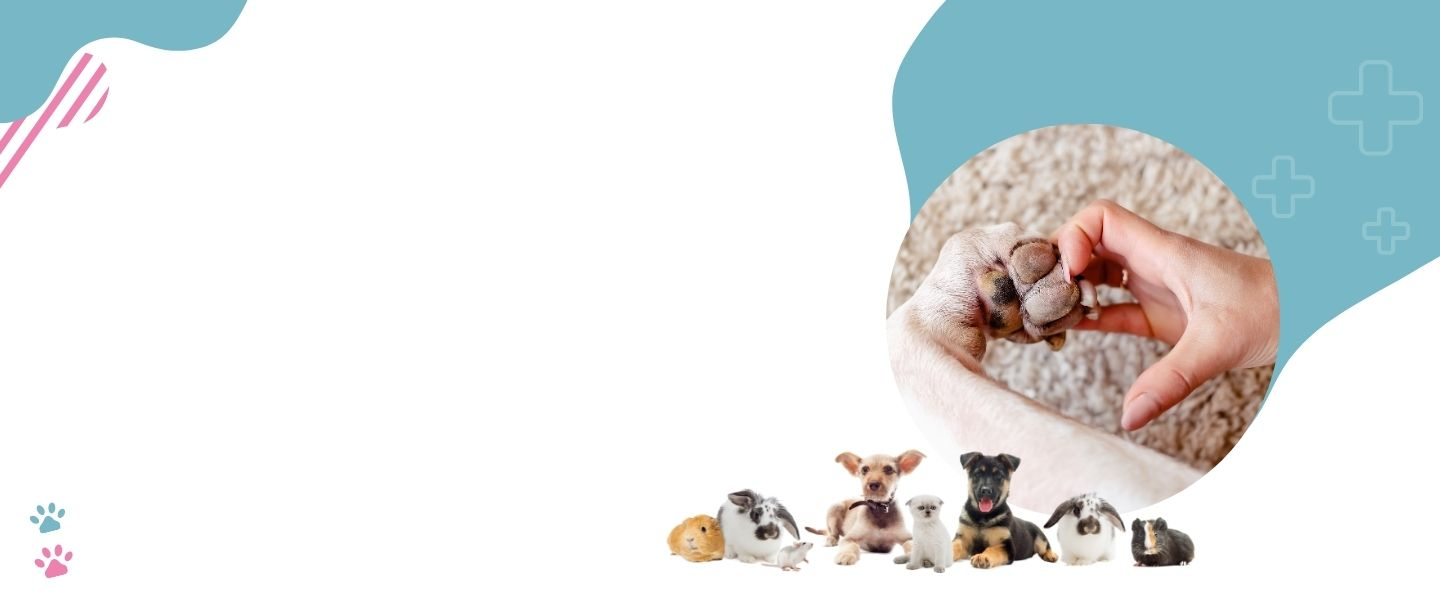
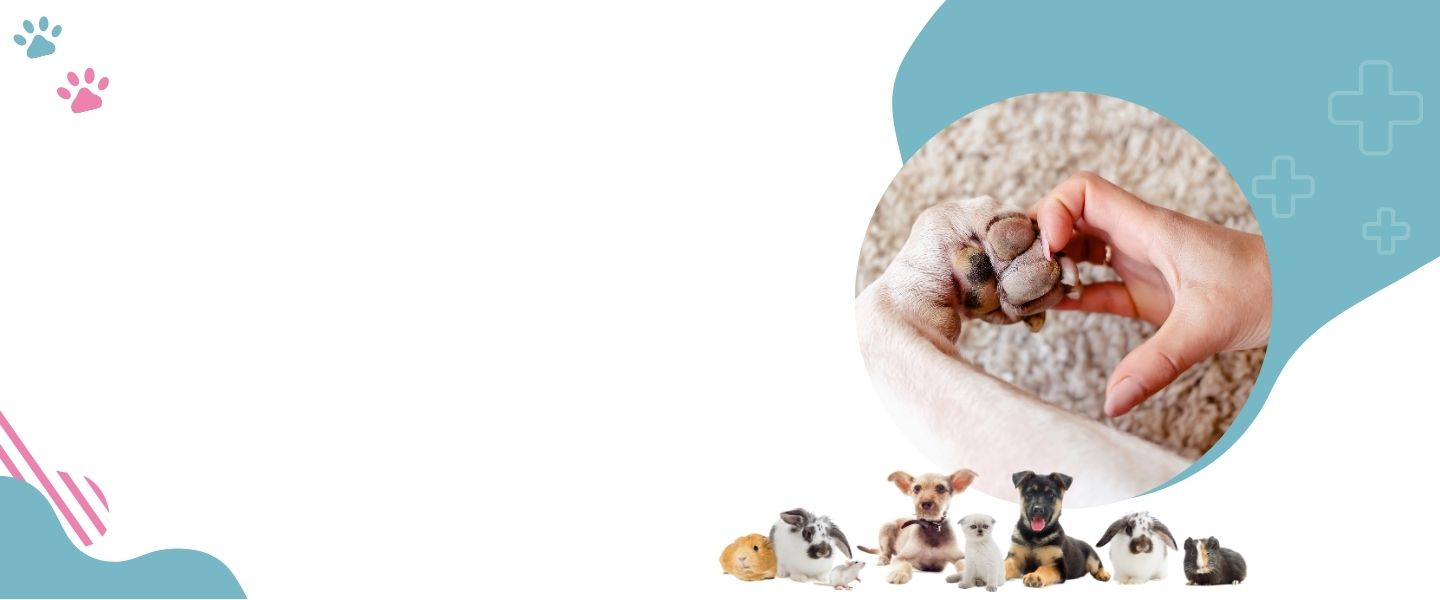
Criei o Benefits, e seus cards, e o locale.json para receber o conteudo do card

Changed region(s): [[0.4375, 0.15, 0.9062, 0.99], [0.0, 0.69, 0.1875, 1.0], [0.0, 0.0, 0.1875, 0.3]]

diff --git a/src/pages/Home/Home.js b/src/pages/Home/Home.js
@@ -1,12 +1,29 @@
 import React from "react";
-import { Hero } from "../../components/Hero/Hero";
+import { Hero } from "../../components/Hero/Hero.js";
 import '../../styles/components/_home.sass';
-import { About } from "../../components/Sections/About";
+import { About } from "../../components/About/About.js";
+import { Benefits } from "../../components/index.js";
+import locale from './locale/pt-BR.json';
 
 export function Home() {
+
     return (
         <div className="container">
             <Hero />
+            <div className="benefits-card">
+                <h2 className="subtitle">A plataforma completa para seu consultório</h2>
+            </div>
+            <div className="container-card">
+                {
+                    locale.benefits.map((benefit, index) => {
+                        return <Benefits
+                            key={index}
+                            title={benefit.title}
+                            content={benefit.content}
+                        />
+                    })
+                }
+            </div>
             <About />
         </div>
     );

diff --git a/src/App.js b/src/App.js
@@ -1,13 +1,13 @@
 import './App.css';
 import { BrowserRouter as Router, Route, Routes } from 'react-router-dom';
-import { Navbar } from './components/Navbar'; // Importação do Navbar
+import { Navbar } from './components/index';
 import { Home } from './pages/Home';
 import "./styles/main.sass";
 
 function App() {
   return (
     <Router>
-      <Navbar /> {/* Renderização do Navbar */}
+      <Navbar /> {}
       <Routes>
         <Route path="/" element={<Home />} />
         <Route path="/home" element={<Home />} />

diff --git a/src/components/Benefits/Benefits.sass b/src/components/Benefits/Benefits.sass
@@ -1,0 +1,20 @@
+.card
+    background-color: #fff
+    border-radius: 8px
+    box-shadow: 0 4px 8px rgba(0, 0, 0, 0.1)
+    padding: 20px
+    margin-bottom: 20px
+
+/* Estilos para o título do card */
+    &-title
+        margin-bottom: 10px
+
+    &-title h2
+        font-size: 1.5rem
+        color: #333
+
+/* Estilos para o conteúdo do card */
+    &-content p
+        font-size: 1rem
+        line-height: 1.4
+        color: #666

diff --git a/src/styles/components/_home.sass b/src/styles/components/_home.sass
@@ -4,14 +4,14 @@
 .hero-container
   background-image: url('../../img/hero-petmeets.jpg')
   background-size: cover
-  height: 90vh
+  height: 80vh
   width: 100%
   @include center
 
 .content-wrapper
   @include center
   justify-content: space-between
-  max-width: 1200px
+  max-width: 1100px
   width: 100%
   padding: 60px
 

diff --git a/src/components/Benefits/Benefits.js b/src/components/Benefits/Benefits.js
@@ -1,0 +1,13 @@
+import React from 'react';
+import '../../styles/components/_home.sass';
+
+export function Benefits({title, content}) {
+  return (
+    <div className= "card">
+        <h1 className="title">{ title }</h1>
+        <p className="content">{ content }</p>
+    </div>
+  );
+}
+
+export default Benefits;

diff --git a/src/components/index.js b/src/components/index.js
@@ -1,0 +1,4 @@
+export { default as Hero } from './Hero/Hero';
+export { default as Navbar } from './Navbar/Navbar';
+export { default as About } from './About/About';
+export { default as Benefits} from './Benefits/Benefits';

diff --git a/src/components/About/About.js b/src/components/About/About.js
@@ -15,4 +15,4 @@ export function About() {
   );
 }
 
-export * from "./About.js";
+export default About;

diff --git a/src/components/Hero/Hero.js b/src/components/Hero/Hero.js
@@ -16,4 +16,4 @@ export function Hero() {
   );
 }
 
-export * from "./Hero.js";
+export default Hero;

diff --git a/src/components/Navbar/Navbar.js b/src/components/Navbar/Navbar.js
@@ -30,3 +30,4 @@ export function Navbar() {
   );
 };
 
+export default Navbar;
